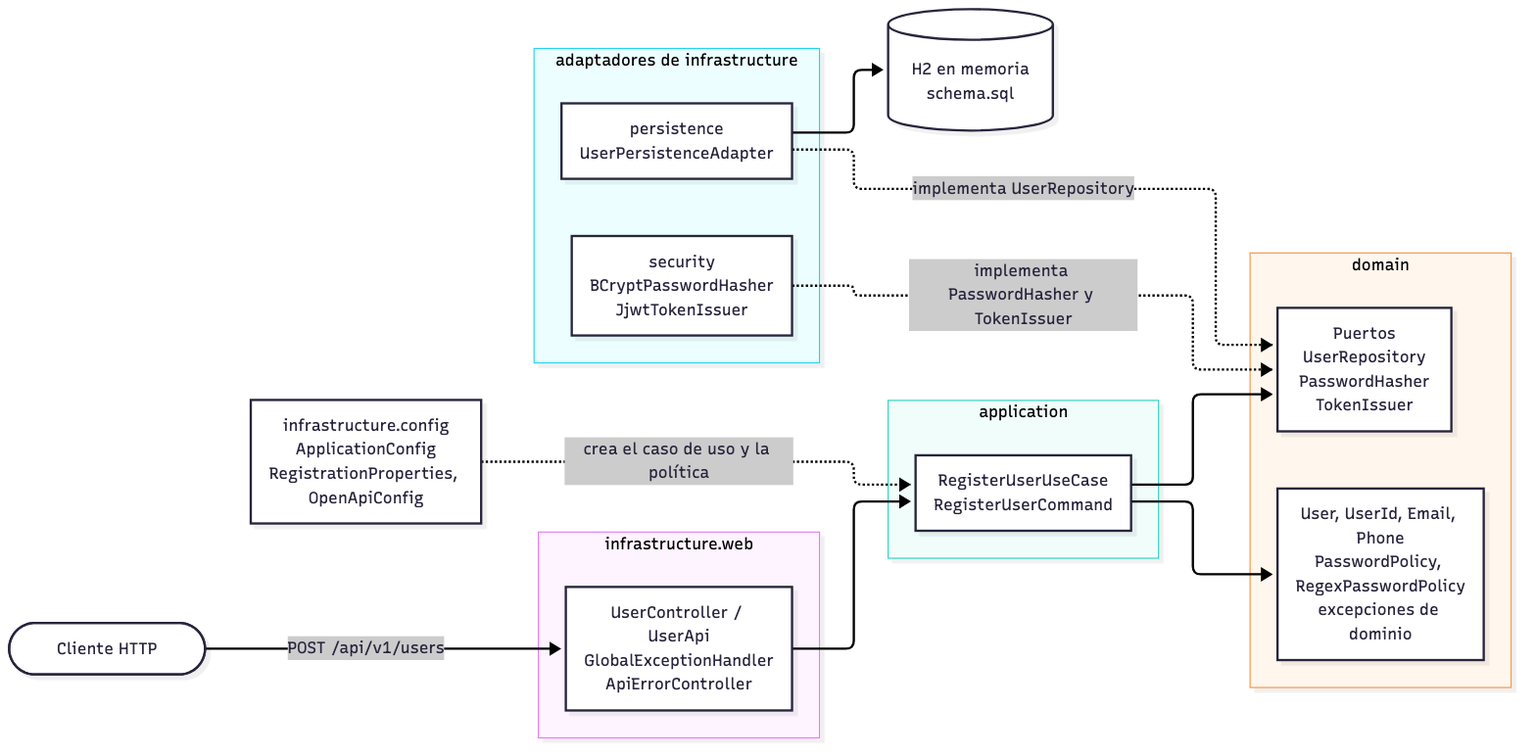
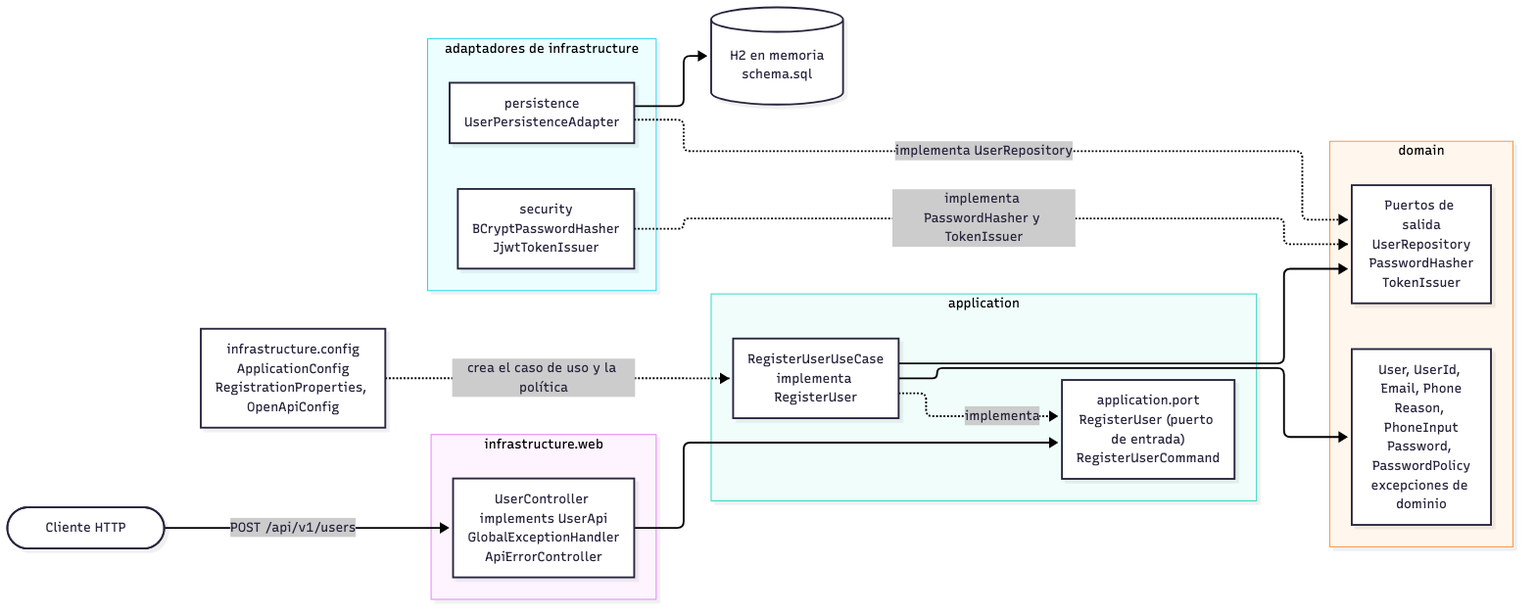
docs: align the README, decision records and diagrams with the code

Changed region(s): [[0.0, 0.3035, 1.0, 1.0], [0.2812, 0.0, 0.8438, 0.2732], [0.875, 0.2125, 0.9688, 0.3035]]

diff --git a/docs/architecture-decisions.md b/docs/architecture-decisions.md
@@ -14,7 +14,7 @@ eso y del enunciado del ejercicio.
 |----|----------|
 | [ADR-001](#adr-001-un-hexágono-ligero-para-un-servicio-de-un-solo-endpoint) | Un hexágono ligero para un servicio de un solo endpoint |
 | [ADR-002](#adr-002-puertos-y-adaptadores-una-razón-para-cada-uno) | Puertos y adaptadores, una razón para cada uno |
-| [ADR-003](#adr-003-sin-interfaz-de-puerto-de-entrada) | Sin interfaz de puerto de entrada |
+| [ADR-003](#adr-003-un-puerto-de-entrada-para-el-caso-de-uso) | Un puerto de entrada para el caso de uso |
 | [ADR-004](#adr-004-transactional-en-el-caso-de-uso-es-la-única-concesión-al-framework) | `@Transactional` en el caso de uso es la única concesión al framework |
 | [ADR-005](#adr-005-un-modelo-de-persistencia-separado-con-mapeo-de-solo-escritura) | Un modelo de persistencia separado con mapeo de solo escritura |
 | [ADR-006](#adr-006-la-validación-vive-en-el-dominio) | La validación vive en el dominio |
@@ -28,7 +28,7 @@ eso y del enunciado del ejercicio.
 | [ADR-014](#adr-014-jjwt-con-jackson-2-junto-a-jackson-3) | JJWT con Jackson 2 junto a Jackson 3 |
 | [ADR-015](#adr-015-bcrypt-mediante-spring-security-crypto-sin-el-starter-de-seguridad) | BCrypt mediante `spring-security-crypto`, sin el starter de seguridad |
 | [ADR-016](#adr-016-el-token-se-persiste-en-claro-y-la-clave-de-firma-es-efímera-salvo-que-se-configure) | El token se persiste en claro y la clave de firma es efímera salvo que se configure |
-| [ADR-017](#adr-017-un-strategy-de-política-de-contraseña-con-un-valor-por-defecto-débil-a-propósito) | Un Strategy de política de contraseña con un valor por defecto débil a propósito |
+| [ADR-017](#adr-017-un-strategy-para-el-formato-de-la-contraseña-con-un-valor-por-defecto-débil-a-propósito) | Un Strategy para el formato de la contraseña, con un valor por defecto débil a propósito |
 | [ADR-018](#adr-018-el-contrycode-literal) | El `contrycode` literal |
 | [ADR-019](#adr-019-normalización-del-correo-y-límites-de-campos) | Normalización del correo y límites de campos |
 | [ADR-020](#adr-020-identificador-generado-por-la-aplicación-y-una-única-lectura-del-reloj) | Identificador generado por la aplicación y una única lectura del reloj |
@@ -52,15 +52,15 @@ solo en parte.
 **Decisión.** El enunciado pide mostrar patrones de diseño y buenas prácticas, así que el servicio se
 construye como un hexágono y se mantiene lo más liviano posible. Cinco reglas acotan el costo:
 
-1. Una sola clase de caso de uso y ninguna interfaz de puerto de entrada (ADR-003).
+1. Una sola clase de caso de uso, con un único puerto de entrada que la expone (ADR-003).
 2. Un puerto existe solo donde hay una dependencia real y reemplazable: la base de datos, el hash y la
    firma del token (ADR-002). El tiempo usa `java.time.Clock`, no un puerto propio.
 3. Sin camino de lectura. El puerto del repositorio tiene dos métodos y no hay mapeo desde el
    almacenamiento de vuelta al dominio.
 4. Sin biblioteca de mapeo, sin Lombok, sin eventos de dominio, sin CQRS.
-5. Cada patrón de la tabla siguiente se nombra con la razón por la que está. Strategy es la única
-   vitrina deliberada: responde al requisito de "regex configurable" del enunciado y tiene una sola
-   implementación de producción.
+5. Cada patrón de la tabla siguiente se nombra con la razón por la que está. Strategy tiene una sola
+   implementación de producción; se justifica por lo que hace, que es separar la regla reemplazable
+   de los límites fijos (ADR-017).
 
 Patrones en uso y por qué:
 
@@ -68,7 +68,7 @@ Patrones en uso y por qué:
 |--------|-------|--------------|
 | Puertos y adaptadores | `domain.port` e `infrastructure.*` | La base de datos, el hash y la firma son dependencias reemplazables, y las pruebas unitarias las sustituyen por dobles de prueba |
 | Value object | `Email`, `UserId`, `Phone` | Normalización y validez en un solo lugar |
-| Strategy | `PasswordPolicy` | Vitrina deliberada para la regla de contraseña configurable del enunciado; una implementación de producción, `RegexPasswordPolicy`, construida desde una propiedad (ADR-017) |
+| Strategy | `PasswordPolicy` | Aísla el formato de la contraseña, la única regla que el enunciado pide configurable, de los límites fijos que aplica `Password`; una implementación de producción, `RegexPasswordPolicy`, construida desde una propiedad (ADR-017) |
 | Adapter | `UserPersistenceAdapter`, `JjwtTokenIssuer`, `BCryptPasswordHasher` | Interfaces de terceros frente a los puertos |
 | Builder | `User.Builder` | Tres campos `String` contiguos (`name`, `passwordHash`, `token`) invitan a una llamada posicional que guarda un token como si fuera un hash |
 
@@ -79,8 +79,9 @@ un único lugar para traducir errores (ADR-008), no un patrón de diseño de est
 
 - Paquetes por capa sin dominio (`controller`, `service`, `repository`): más simple y suficiente para
   el comportamiento, pero no muestra ninguno de los patrones pedidos.
-- Paquetes anidados `adapter/in`, `adapter/out`, `application/port/in`, `application/port/out`: cuatro
-  niveles de paquete más para un puñado de clases.
+- Paquetes anidados `adapter/in`, `adapter/out` y `application/port/out`: niveles de paquete de más
+  para un puñado de clases. Solo existe `application.port`, que contiene el puerto de entrada y su
+  comando (ADR-003); los puertos de salida están en `domain.port` (ADR-002).
 - Factory, Observer, eventos de dominio y CQRS: nada en este servicio los requiere.
 
 **Consecuencias.**
@@ -122,28 +123,43 @@ emisor falso), no un segundo adaptador de producción: los puertos se justifican
 reemplazable y por la capacidad de prueba, no por una segunda implementación real. Los adaptadores son
 privados al paquete e independientes entre sí, lo que una regla de ArchUnit hace cumplir.
 
-## ADR-003: Sin interfaz de puerto de entrada
+## ADR-003: Un puerto de entrada para el caso de uso
 
-**Contexto.** Los diagramas hexagonales suelen mostrar un puerto de entrada delante del caso de uso.
+**Contexto.** Los diagramas hexagonales muestran un puerto de entrada delante del caso de uso. El
+servicio ya tiene puertos de salida (ADR-002): sin el de entrada, cada frontera entre capas sería una
+interfaz salvo esta, y el adaptador web dependería de una clase concreta de la capa de aplicación.
 
-**Decisión.** `UserController` depende de la clase concreta `RegisterUserUseCase`. Una interfaz con un
-solo implementador agrega un archivo y un salto y no quita nada. Las pruebas del corte web
-reemplazan la clase por un mock.
+**Decisión.** `RegisterUser` (en `application.port`, junto a `RegisterUserCommand`) es la interfaz del
+caso de uso, con el único método `register`. `RegisterUserUseCase` la implementa y conserva el
+`@Transactional`. `UserController` depende de la interfaz y `ApplicationConfig` expone el bean con ese
+tipo. La implementación vive directamente en `application`; el subpaquete `port` es lo que el adaptador
+web puede ver, y una regla de ArchUnit prohíbe que una clase de `infrastructure.web` dependa de las
+clases de `application` (ADR-021). Se agregan interfaces solo en las fronteras entre capas: no hay
+interfaces para value objects, records, entidades, excepciones ni clases de configuración.
 
-**Alternativas descartadas.** Una interfaz `RegisterUserPort` con una implementación `...Service`.
+**Por qué.** El adaptador web depende de una abstracción cuyo dueño es la capa de aplicación, de forma
+simétrica con los puertos de salida, que son abstracciones cuyo dueño es el dominio. Además, el
+controlador se prueba con un doble de la interfaz sin tocar una clase concreta que Spring envuelve en un
+proxy.
 
-**Consecuencias.** Si se agrega un segundo punto de entrada (un consumidor de mensajes, una línea de
-comandos), extraer una interfaz de la clase es un cambio mecánico que se hace cuando existe el segundo
-llamador.
+**Alternativas descartadas.** Depender de la clase concreta: una interfaz con un solo implementador
+agrega un tipo y un salto, y el argumento era que la extracción se podía hacer cuando apareciera un
+segundo llamador. Se descartó porque la frontera entre capas queda sin abstracción hasta entonces y
+porque la regla de dependencia deja de poder comprobarse con una prueba de arquitectura.
+
+**Consecuencias.** El costo es un tipo más con una única implementación. El proxy de `@Transactional` es
+de clase (CGLIB, el valor por defecto de Boot), así que la implementación sigue sin ser `final` y su
+método sigue siendo público; una prueba lo fija.
 
 ## ADR-004: `@Transactional` en el caso de uso es la única concesión al framework
 
-**Contexto.** La comprobación de existencia y la inserción deben pertenecer a una misma operación
-consistente, y la capa de aplicación es la dueña natural de ese límite.
+**Contexto.** La comprobación de existencia del correo, la inserción del usuario y la de sus teléfonos
+son pasos de una misma operación, y la capa de aplicación es la dueña natural de ese límite.
 
-**Decisión.** `RegisterUserUseCase.register` lleva el `@Transactional` de Spring. Es el único tipo del
-framework en los paquetes `domain` y `application`. La clase no tiene anotación de estereotipo:
-`ApplicationConfig` la crea como bean.
+**Decisión.** `RegisterUserUseCase.register` lleva el `@Transactional` de Spring. El caso de uso es el
+límite de la transacción para que la comprobación de duplicado, la inserción del usuario y la de sus
+teléfonos se confirmen o se deshagan juntas. Es el único tipo del framework en los paquetes `domain` y
+`application`. La clase no tiene anotación de estereotipo: `ApplicationConfig` la crea como bean.
 
 | Opción | Veredicto |
 |--------|-----------|
@@ -151,6 +167,21 @@ framework en los paquetes `domain` y `application`. La clase no tiene anotación
 | Un decorador construido con `TransactionTemplate` en la configuración | Rechazada: mantiene la capa de aplicación libre de Spring, pero agrega una interfaz y una clase cuyo único trabajo es evitar una anotación |
 | `@Transactional` en el adaptador de persistencia | Rechazada: la comprobación de existencia y el guardado correrían en transacciones separadas |
 | En el controlador | Rechazada: mezcla HTTP con consistencia |
+
+**Qué garantiza la anotación y qué no.**
+
+- Garantiza que `existsByEmail`, el insert de `users` y los de `phones` ocurren en una sola transacción:
+  si algo falla después de insertar el usuario, la fila del usuario se deshace con las demás.
+- No es lo que garantiza la unicidad del correo. Dos solicitudes concurrentes pueden pasar ambas la
+  comprobación; la restricción `UNIQUE` de la base de datos es la que rechaza a la segunda, y el
+  adaptador traduce esa violación a un 409.
+- Las pruebas de atomicidad (un teléfono rechazado por la base no deja ni el usuario ni ningún
+  teléfono) pasarían también sin la anotación, porque `saveAndFlush` de Spring Data es transaccional por
+  sí mismo y el usuario y sus teléfonos se guardan en esa misma llamada. Una mutación que quite
+  `@Transactional` la detectan solo las pruebas estructurales: la que comprueba que el bean es un proxy
+  transaccional de la clase y la que fija que la clase no es `final` y que el método es público. La
+  anotación fija el límite de la operación completa; el comportamiento observable de hoy no depende de
+  ella.
 
 **Consecuencias.**
 
@@ -197,10 +228,13 @@ los campos erróneos en un solo mensaje, como máximo un mensaje por campo, toma
 falla en este orden: obligatorio, largo, formato. Los dos formatos (correo y contraseña) son
 configuración en tiempo de ejecución.
 
-**Decisión.** Cada regla es una función pura del dominio que devuelve un motivo tipado
-(`Email.violation`, `User.nameViolation`, `Phone.violations`, `PasswordPolicy.violation`). El caso de uso
-reúne los motivos en un conjunto, y un conjunto no vacío se convierte en una sola
-`InvalidUserDataException` antes de tocar el repositorio. Los value objects llaman a las mismas
+**Decisión.** Cada regla es una función pura del dominio que devuelve un motivo tipado, `Reason`, un enum del paquete
+`domain.model` (`Email.violation`, `User.nameViolation`, `Password.violation`,
+`User.phoneListViolations`, que a su vez usa `Phone.violations`). Las reglas de la lista de teléfonos
+(una lista ausente es válida, una lista con demasiadas entradas se rechaza sin mirar las entradas, una
+entrada nula tiene su propio motivo) viven en el dominio, no en el caso de uso. El caso de uso reúne los
+motivos en un conjunto, y un conjunto no vacío se convierte en una sola `InvalidUserDataException`
+antes de tocar el repositorio: orquesta y no decide nada. Los value objects llaman a las mismas
 funciones en sus constructores, de modo que un `Email` no puede existir en estado inválido si se
 construye por otro camino. El dominio no lleva texto para el cliente: `ErrorMessages`, en la capa web,
 asigna a cada motivo su mensaje. Los records de solicitud no llevan anotaciones de Bean Validation.
@@ -217,9 +251,9 @@ asigna a cada motivo su mensaje. Los records de solicitud no llevan anotaciones 
 - El largo siempre precede al patrón, así que un valor desmesurado nunca llega al motor de expresiones
   regulares. Una prueba envía un correo de 50.000 caracteres contra un patrón propenso a backtracking
   catastrófico y exige una respuesta en menos de cinco segundos.
-- Las reglas de "obligatorio" y de largo en bytes de la contraseña están en el dominio, fuera del
-  Strategy, de modo que el límite de 72 bytes se mantiene sea cual sea el patrón que configure un
-  operador.
+- Las reglas de "obligatorio" y de largo en bytes de la contraseña están en `Password`, una clase final
+  con una función estática, fuera del Strategy: ninguna implementación de `PasswordPolicy` puede
+  saltárselas, y el límite de 72 bytes se mantiene sea cual sea el patrón que configure un operador.
 - Bean Validation se sigue usando para los dos records de configuración, de modo que una propiedad
   incorrecta detiene el arranque.
 
@@ -488,13 +522,14 @@ correo enmascarado, y las pruebas capturan la salida en DEBUG y TRACE y buscan l
 el token y el secreto. Una prueba también falla si las fuentes principales contienen el antiguo
 secreto de desarrollo.
 
-## ADR-017: Un Strategy de política de contraseña con un valor por defecto débil a propósito
+## ADR-017: Un Strategy para el formato de la contraseña, con un valor por defecto débil a propósito
 
 **Contexto.** El enunciado hace configurable la regla de contraseña, y su contraseña de ejemplo es
 `hunter2`.
 
-**Decisión.** `PasswordPolicy` es una interfaz (un Strategy) con `RegexPasswordPolicy` como
-implementación, construida desde `app.registration.password-pattern`. El valor por defecto es
+**Decisión.** `PasswordPolicy` es una interfaz (un Strategy) con un único método, `isSatisfiedBy`, que
+decide solo el formato. `RegexPasswordPolicy` la implementa, construida desde
+`app.registration.password-pattern`. El valor por defecto es
 
 ```
 ^(?=.*[A-Za-z])(?=.*[0-9])\S{7,72}$
@@ -510,22 +545,30 @@ una mayúscula, un dígito y un símbolo:
 ^(?=.*[a-z])(?=.*[A-Z])(?=.*[0-9])(?=.*[^A-Za-z0-9\s])\S{12,72}$
 ```
 
-Los límites de 72 caracteres y 72 bytes los aplica el dominio sea cual sea el patrón.
+**Por qué un Strategy aquí.** Se justifica por lo que hace. La contraseña tiene dos tipos de regla:
+límites fijos, que no dependen de la configuración (es obligatoria y cabe en 72 bytes UTF-8, el límite
+con el que trabaja BCrypt), y un formato reemplazable, que el enunciado pide "configurable". La
+interfaz separa ambos: `Password.violation` aplica los límites fijos en este orden, obligatorio, largo,
+y solo entonces consulta al `PasswordPolicy` el formato. Los límites viven en una clase final con una
+función estática, no en un método por defecto de la interfaz, porque un método por defecto lo puede
+sobrescribir una implementación y saltarse el límite. Dicho con franqueza: **hay una sola implementación
+de producción**, `RegexPasswordPolicy`, y la interfaz no la fuerza una segunda implementación; las
+pruebas la usan con expresiones regulares simples y con contadores de llamadas.
 
-**Por qué un Strategy aquí.** `PasswordPolicy` es la vitrina deliberada del requisito de "regex
-configurable" del enunciado, y tiene una sola implementación de producción, `RegexPasswordPolicy`. La
-interfaz no está forzada por una segunda implementación; nombra el punto de extensión que el enunciado
-pide, y las pruebas unitarias la usan con expresiones regulares simples.
+**Por qué el correo no tiene lo mismo.** El correo usa un `Pattern` simple, recibido como parámetro de
+`Email.violation` y de `Email.of`. La asimetría tiene dos razones. El enunciado pide que sea
+configurable la regla de la contraseña y no la del correo. Y la contraseña tiene límites fijos que deben
+quedar fuera de lo reemplazable, mientras que en el correo lo único reemplazable es el formato: su largo
+máximo y su normalización ya viven en `Email`, de modo que no hay nada que separar y una interfaz
+`EmailPolicy` sería una abstracción más para lo mismo.
 
-**Alternativas descartadas.** Un campo `Pattern` en el caso de uso: funciona pero oculta el único punto
-de extensión que nombra el enunciado. Una interfaz simétrica `EmailPolicy`: el formato del correo
-también es una expresión regular, así que basta un parámetro `Pattern` y no se agrega una segunda
-abstracción para lo mismo. La asimetría es deliberada: el enunciado pide que la regla de contraseña sea
-configurable como política, y el Strategy se muestra una sola vez.
+**Alternativas descartadas.** Un campo `Pattern` en el caso de uso: funciona, pero deja los límites
+fijos y el formato mezclados y sin un punto de extensión con nombre. Un método por defecto en la
+interfaz que aplique los límites: era el diseño anterior; un implementador lo podía sobrescribir.
 
 **Consecuencias.** El valor por defecto acepta contraseñas débiles; la debilidad está documentada en el
 README y aquí. Una expresión regular inválida detiene el arranque con un mensaje que nombra la
-propiedad.
+propiedad. Los límites de 72 caracteres y de 72 bytes los aplica `Password` sea cual sea el patrón.
 
 ## ADR-018: El `contrycode` literal
 
@@ -605,7 +648,7 @@ del caso de uso está fijada por una prueba que usa un reloj que avanza en cada 
 | JaCoCo | Al menos 80 % de cobertura de líneas sobre `domain` y `application` | El valor medido está en el informe de JaCoCo de cada build. La infraestructura se ejercita con pruebas de corte y de contexto completo, pero no tiene umbral: un porcentaje sobre código de cableado invita a pruebas de configuración |
 | Spotless | Google Java Format 1.28.0, sin imports sin usar, sin espacios finales | `spotlessCheck` corre dentro de `check`; `./gradlew spotlessApply` lo corrige |
 | Error Prone | Análisis estático dentro del compilador de Java | Fijado en 2.42.0, la última línea que corre en JDK 17 (ADR-011). Junto con `-Xlint:all -Werror` en las fuentes principales |
-| ArchUnit (núcleo) | Reglas de capas y de dependencias | Las reglas listadas abajo |
+| ArchUnit (núcleo) | Reglas de capas y de dependencias | Las ocho reglas listadas abajo |
 | `.editorconfig` | UTF-8, LF, salto de línea final, indentación | Compartido por los editores |
 
 Las reglas de ArchUnit:
@@ -619,6 +662,8 @@ Las reglas de ArchUnit:
 5. Ninguna clase usa inyección en campos.
 6. Las clases `@Entity` residen en `infrastructure.persistence`.
 7. Ninguna clase de `web` usa una entidad JPA.
+8. Ninguna clase de `web` depende de las clases del paquete `application`; solo ve el puerto de entrada
+   (`application.port`).
 
 **Una regla que no puede fallar no es una regla.** Una segunda clase de pruebas entrega a cada regla
 una clase de fixture escrita para romperla (en un paquete de pruebas aparte) y exige que la regla falle
@@ -656,10 +701,13 @@ tiempo de build y una compilación más estricta, que es el propósito.
 | `UserId` | Identificador tipado alrededor de un UUID | Evita que un id se mezcle con otro string; se genera antes de que exista la fila |
 | `Email` | Value object: en minúsculas, acotado, con formato verificado, enmascarado para logs | Una sola definición de normalización y de unicidad |
 | `Phone` | Value object: número, código de ciudad, código de país | Mantiene juntos los tres strings con sus límites y su formato |
-| `PasswordPolicy`, `RegexPasswordPolicy` | Strategy de las reglas de contraseña; la expresión regular viene de la configuración | El enunciado exige que la regla sea configurable |
+| `Reason` | Enum de los motivos tipados de rechazo, en `domain.model` | El dominio dice qué regla se incumplió sin llevar texto ni el valor rechazado |
+| `Password` | Límites fijos de la contraseña (obligatoria, 72 bytes) y composición con el formato | Ninguna implementación del Strategy puede saltarse los límites (ADR-017) |
+| `PasswordPolicy`, `RegexPasswordPolicy` | Strategy del formato de la contraseña; la expresión regular viene de la configuración | El enunciado exige que el formato sea configurable (ADR-017) |
+| `PhoneInput` | Las tres partes de un teléfono tal como se enviaron, antes de validarlas | Permite al dominio validar una lista de teléfonos sin conocer el tipo del llamador |
 | `InvalidUserDataException`, `EmailAlreadyRegisteredException` | Rechazos de dominio tipados; sin texto para el cliente | El dominio dice qué salió mal, la capa web decide cómo decirlo |
 | `UserRepository`, `PasswordHasher`, `TokenIssuer` | Puertos de salida | El caso de uso se prueba sin base de datos, BCrypt ni JJWT (ADR-002) |
-| `RegisterUserUseCase`, `RegisterUserCommand` | Orquesta el registro y es dueño de la transacción | El único servicio de aplicación; el comando oculta la contraseña en `toString()` |
+| `RegisterUser`, `RegisterUserUseCase`, `RegisterUserCommand` | El puerto de entrada, su implementación y el comando; la implementación orquesta el registro y es dueña de la transacción | El único servicio de aplicación; el adaptador web depende de la interfaz (ADR-003); el comando oculta la contraseña en `toString()` |
 | `UserController`, `UserApi` | HTTP a comando a respuesta; la interfaz lleva las anotaciones OpenAPI | Mantiene el controlador en pocas líneas |
 | `RegisterUserRequest`, `PhoneRequest`, `UserResponse`, `PhoneResponse`, `ErrorResponse` | Records JSON | Contrato explícito en el cable; la respuesta no tiene componente de contraseña |
 | `UserWebMapper` | Mapeo estático entre records y comando o agregado | Un campo olvidado es un error de compilación; nunca lee el hash de la contraseña |
@@ -673,10 +721,33 @@ tiempo de build y una compilación más estricta, que es el propósito.
 | `ApplicationConfig`, `RegistrationProperties`, `OpenApiConfig` | Cableado del caso de uso, la política y el reloj; propiedades tipadas `app.registration.*`; metadatos de OpenAPI | Las clases de dominio y de aplicación no llevan anotación de estereotipo, así que el cableado está aquí |
 | `schema.sql` | Crea `users` y `phones` | ADR-013 |
 
+### Interfaces y clases abstractas
+
+Cada interfaz está en una frontera entre capas o es un punto de extensión con nombre. Ninguna se agregó
+a value objects, records, entidades, excepciones ni configuración.
+
+| Tipo | Implementaciones |
+|------|------------------|
+| `RegisterUser` (puerto de entrada, `application.port`) | `RegisterUserUseCase` |
+| `UserRepository` (puerto de salida) | `UserPersistenceAdapter`; `InMemoryUserRepository` en las pruebas |
+| `PasswordHasher` (puerto de salida) | `BCryptPasswordHasher`; un doble de prueba |
+| `TokenIssuer` (puerto de salida) | `JjwtTokenIssuer`; un doble de prueba |
+| `PasswordPolicy` (Strategy del formato) | `RegexPasswordPolicy` |
+| `PhoneInput` (entrada sin validar de un teléfono) | `RegisterUserCommand.PhoneData` |
+| `UserApi` (contrato HTTP y anotaciones OpenAPI) | `UserController` |
+| `UserJpaRepository` (Spring Data) | Generada por Spring Data en tiempo de ejecución |
+| `DomainException` (clase abstracta) | `InvalidUserDataException`, `EmailAlreadyRegisteredException` |
+
 ---
 
 ## Limitaciones conocidas
 
+- **La barra final responde 404.** `POST /api/v1/users/` (con barra final) no coincide con la ruta y
+  se responde con el 404 del contrato (`Recurso no encontrado`). El servicio no hace coincidir ambas
+  formas.
+- **Sin límite de tamaño del cuerpo.** La aplicación no fija un tamaño máximo para el cuerpo de la
+  solicitud más allá de los valores por defecto del servidor. Los campos tienen cotas (ADR-019), pero se
+  comprueban después de leer el cuerpo.
 - **Rechazos a nivel del contenedor.** Una solicitud que el contenedor de servlets rechaza antes de que
   corra código de la aplicación (una secuencia de porcentaje inválida en la ruta, una línea de
   solicitud mal formada, encabezados demasiado grandes) se responde con la página de error propia del

diff --git a/README.md b/README.md
@@ -155,6 +155,7 @@ la página se sirve, pero rechaza la conexión ("remote connections are disabled
 ./gradlew clean build --rerun-tasks  # lo mismo desde cero, sin caché
 ./gradlew spotlessApply              # corrige el formato
 bash scripts/acceptance.sh           # con el servicio en marcha: solicitudes reales con curl
+npx -y newman run postman/registro-usuarios-api.postman_collection.json   # colección de Postman
 ```
 
 - **Capas de prueba:** JUnit simple para el dominio y el caso de uso (sin Spring ni base de datos),
@@ -168,10 +169,28 @@ bash scripts/acceptance.sh           # con el servicio en marcha: solicitudes re
   que cada regla falla cuando una clase de fixture la rompe.
 - **Script de aceptación:** hace solicitudes reales con `curl` (el ejemplo del enunciado, el duplicado,
   cuerpos inválidos y mal formados, 404, 405, 406, 415, Swagger UI y el documento OpenAPI) y termina con
-  código distinto de cero en el primer fallo. Use una instancia nueva cada vez, porque la dirección del
-  ejemplo solo se puede registrar una vez; `BASE_URL` apunta a otra dirección.
+  código distinto de cero en el primer fallo. Se puede ejecutar varias veces sobre la misma instancia,
+  porque cada ejecución registra una dirección distinta; `BASE_URL` apunta a otra dirección.
+- **Colección de Postman:** ver la sección siguiente.
 - **CI:** [`.github/workflows/ci.yml`](.github/workflows/ci.yml) ejecuta `./gradlew build` y construye la
   imagen en cada push y pull request a `main`.
+
+## Colección de Postman
+
+[`postman/registro-usuarios-api.postman_collection.json`](postman/registro-usuarios-api.postman_collection.json)
+(Postman Collection v2.1) tiene 16 solicitudes con sus pruebas: el registro, el duplicado, cada tipo de
+rechazo, 404, 405, 406, 415 y el documento OpenAPI. La solicitud `00` envía el ejemplo literal del
+enunciado: responde `201` la primera vez y `409` después, y su prueba acepta ambos. Las demás usan un
+correo distinto en cada ejecución, de modo que la colección se puede repetir sobre la misma instancia.
+
+- **Importar en Postman:** *Import*, elegir el archivo. La variable de colección `baseUrl` vale
+  `http://localhost:8080`; cámbiela si el servicio escucha en otra dirección.
+- **Ejecutar con Newman** (con el servicio en marcha):
+
+```
+npx -y newman run postman/registro-usuarios-api.postman_collection.json
+npx -y newman run postman/registro-usuarios-api.postman_collection.json --env-var baseUrl=http://localhost:9090
+```
 
 ## Arquitectura
 
@@ -183,10 +202,12 @@ Los diagramas son Mermaid ([`components.mmd`](docs/diagrams/components.mmd),
 [`registration-sequence.mmd`](docs/diagrams/registration-sequence.mmd)) y se exportan a PNG en la misma
 carpeta.
 
-- `domain` no tiene framework: `User`, `Email`, `Phone`, `UserId`, la política de contraseña, las
-  reglas de validación y los tres puertos (`UserRepository`, `PasswordHasher`, `TokenIssuer`).
-- `application` tiene una sola clase, `RegisterUserUseCase`, que orquesta el registro y es dueña de la
-  transacción. `@Transactional` es el único tipo del framework permitido allí.
+- `domain` no tiene framework: `User`, `Email`, `Phone`, `UserId`, las reglas de validación (con sus
+  motivos tipados, `Reason`), los límites fijos de la contraseña (`Password`), el formato configurable
+  (`PasswordPolicy`) y los tres puertos de salida (`UserRepository`, `PasswordHasher`, `TokenIssuer`).
+- `application` tiene el puerto de entrada `RegisterUser` (con su comando) y una sola implementación,
+  `RegisterUserUseCase`, que orquesta el registro y es dueña de la transacción. `@Transactional` es el
+  único tipo del framework permitido allí.
 - `infrastructure` contiene los adaptadores: `web` (controlador, records JSON, manejo de errores),
   `persistence` (JPA), `security` (BCrypt, JJWT) y `config` (cableado y propiedades).
 
@@ -230,6 +251,8 @@ descartadas, está en [`docs/architecture-decisions.md`](docs/architecture-decis
 - El patrón de contraseña por defecto es débil a propósito.
 - Los datos están en memoria y se pierden al reiniciar.
 - La consola H2 y Swagger UI vienen activadas.
+- Una barra final (`POST /api/v1/users/`) responde `404`, y la aplicación no fija un tamaño máximo para
+  el cuerpo de la solicitud más allá de los valores por defecto del servidor.
 - Una respuesta de duplicado le dice a quien llama que una dirección está registrada.
 
 La lista completa, con su razonamiento, está al final de
